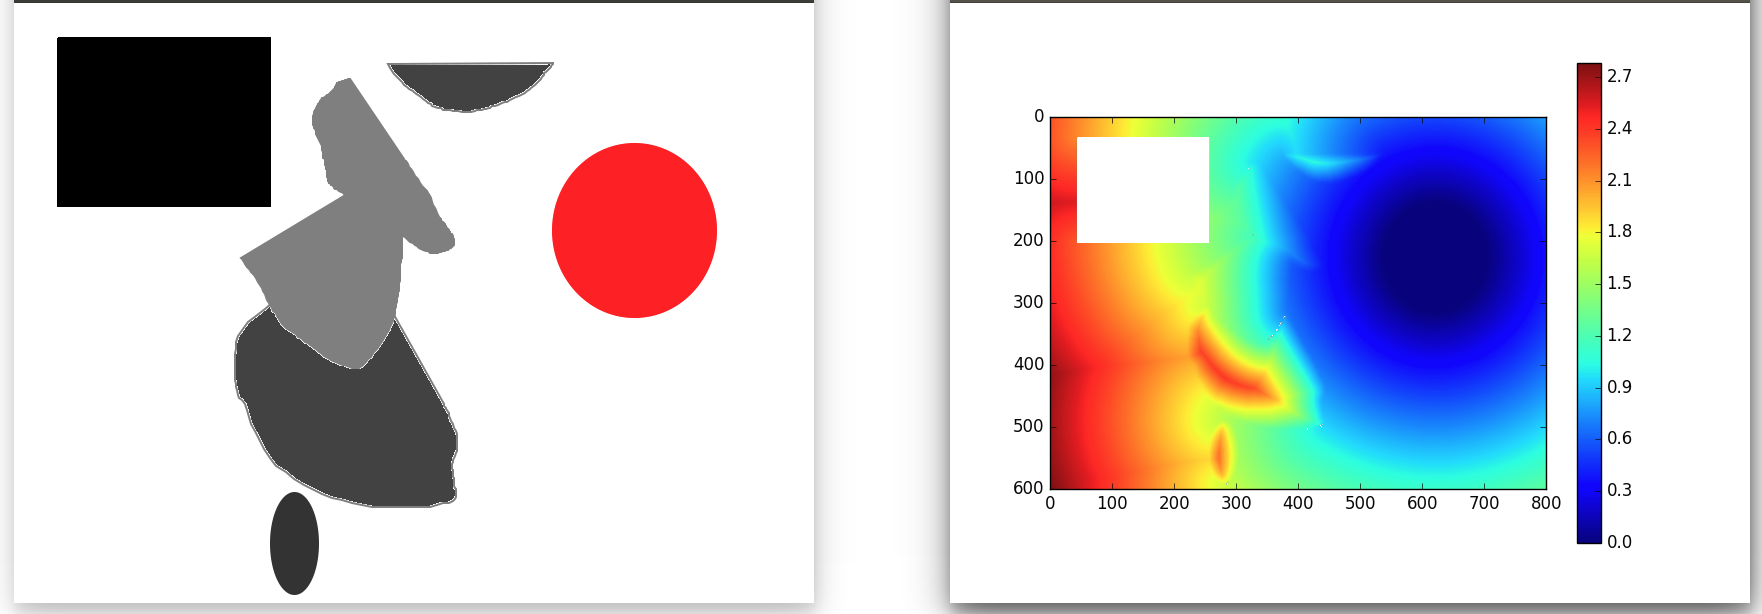
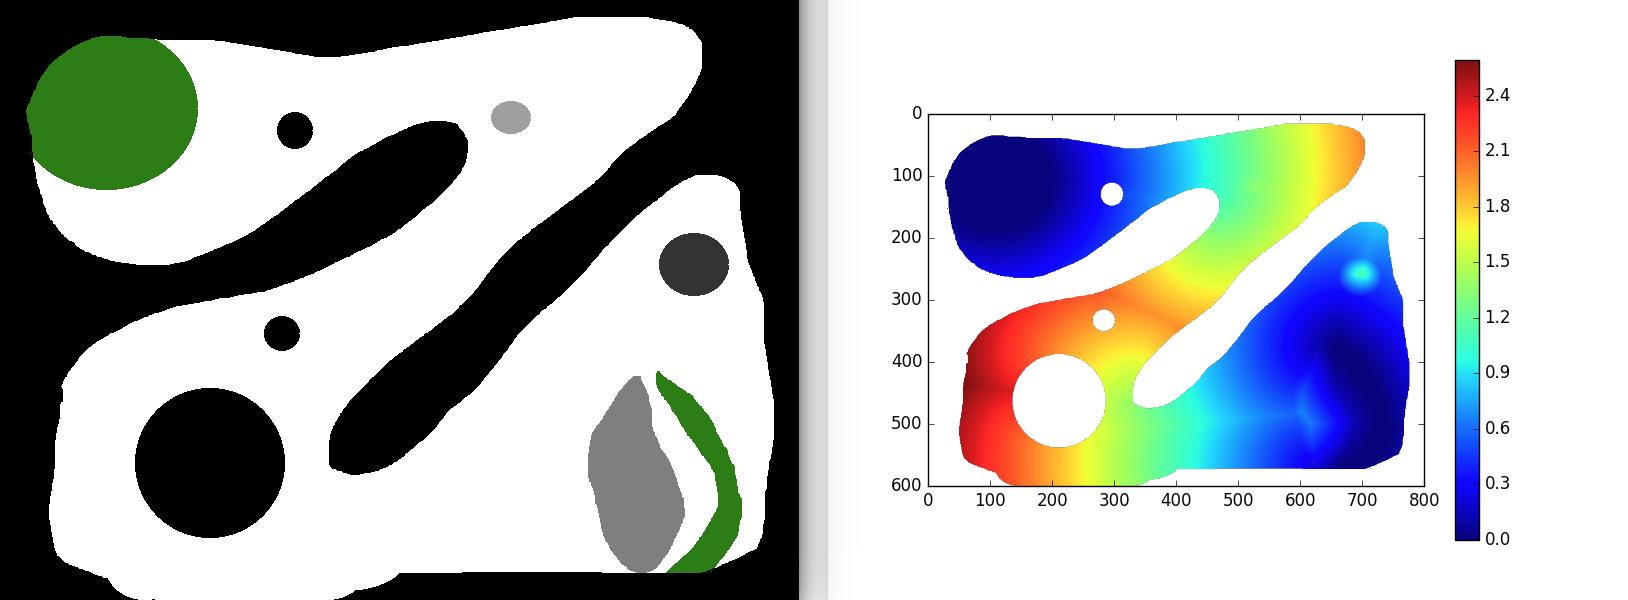
Changed default color map to green exits

diff --git a/wdt.py b/wdt.py
@@ -22,7 +22,7 @@ def map_image_to_costs(image):
     a 2D array containing costs for moving through each pixel.
     This cost field forms the input for the weighted distance transform
     zero costs denote exits, infinite costs denote fully impenetrable obstacles.
-    In this example, we follow previous Mercurial standards: obstacles are in black, exits in red,
+    In this example, we follow Mercurial standards: obstacles are in black, exits in green,
     accessible space is in white, less accessible space has less white.
     Adapt to your own needs.
     :param image: String of image file or open file descriptor of image
@@ -30,8 +30,8 @@ def map_image_to_costs(image):
     """
     # Read image and convert to binary format
     data = imread(image, mode='RGB') / 255.
-    # Exits are present in all red enough places ("R >> BG")
-    exits = np.where(data[:, :, 0] - (data[:, :, 1] + data[:, :, 2]) / 2 > 2. / 3)
+    # Exits are present in all green enough places ("G >> R and G")
+    exits = np.where(data[:, :, 1] - (data[:, :, 0] + data[:, :, 2]) / 2 > 1./3 )
     # Obstacles are in black (so at least G and B must be zero)
     obstacles = np.where(np.abs(data[:, :, 1] + data[:, :, 2]) < 1. / 256)
     # Convert image to greyscale

diff --git a/README.md b/README.md
@@ -16,7 +16,7 @@ This script implements a fast marching algorithm in Fortran, compiled to a Pytho
 ### How does it work?
 
 ![Image with text](/images/cover_example.png?raw=true "Example image")
-Input (left): A PNG/JPG image with with boundaries/exits from which to compute the distance (red), obstacles (full black), normal space (white), less 'accessible space' (grey-ish).
+Input (left): A PNG/JPG image with with boundaries/exits from which to compute the distance (green), obstacles (full black), normal space (white), less 'accessible space' (grey-ish).
 
 Output (right): A distance transform. Image plotted in Matplotlib.
 ### Installing
@@ -38,8 +38,8 @@ python3 setup.py install
 
 ### Usage:
 
-The original use case of this script is creating motion planners for 2D environments (in [crowd dynamics](https://symbols.hotell.kau.se/2016/11/30/mercurial/)). We identify goals with _red_, obstacles in _black_, and accessible space in _white_. The corresponding color mapping is included.
-You can use any color (except full red) to indicate an area that is less easily accessible (and preferably should be avoided). The darker the colour (mapped to a greyscale), the more difficult it is to move through.
+The original use case of this script is creating motion planners for 2D environments (in [crowd dynamics](https://symbols.hotell.kau.se/2016/11/30/mercurial/)). We identify goals with _green_, obstacles in _black_, and accessible space in _white_. The corresponding color mapping is included.
+You can use any color (except green) to indicate an area that is less easily accessible (and preferably should be avoided). The darker the colour (mapped to a greyscale), the more difficult it is to move through.
 
 Since this mapping is pretty arbitrary, you can provide your own in `wdt.py`.
 
